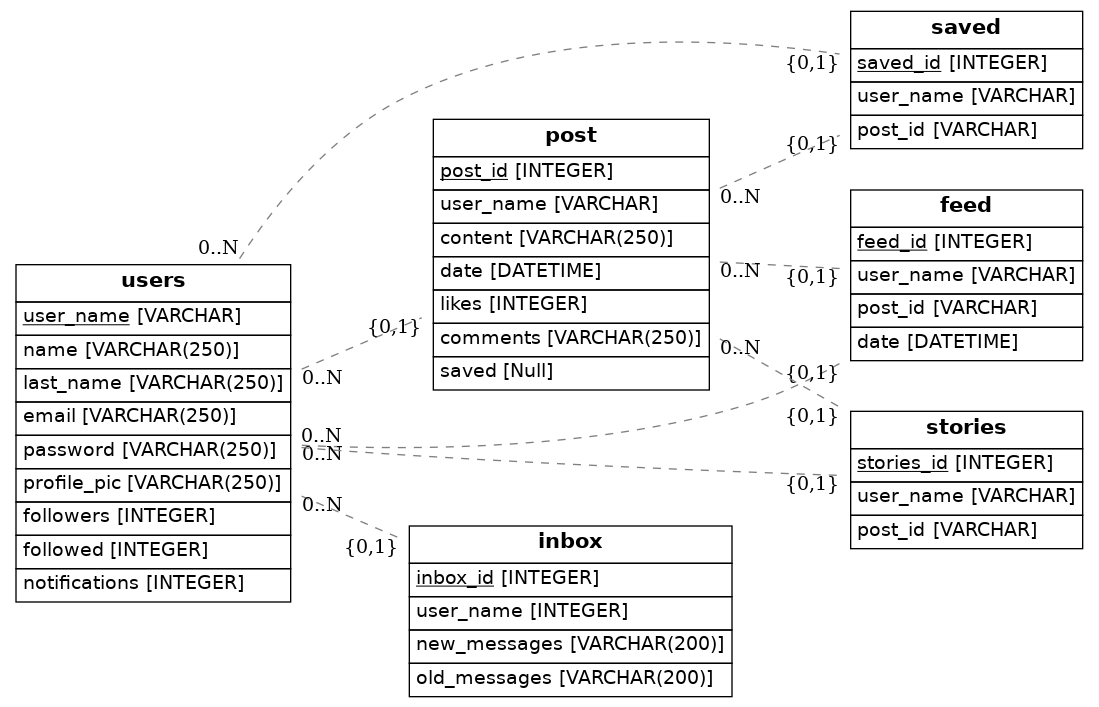
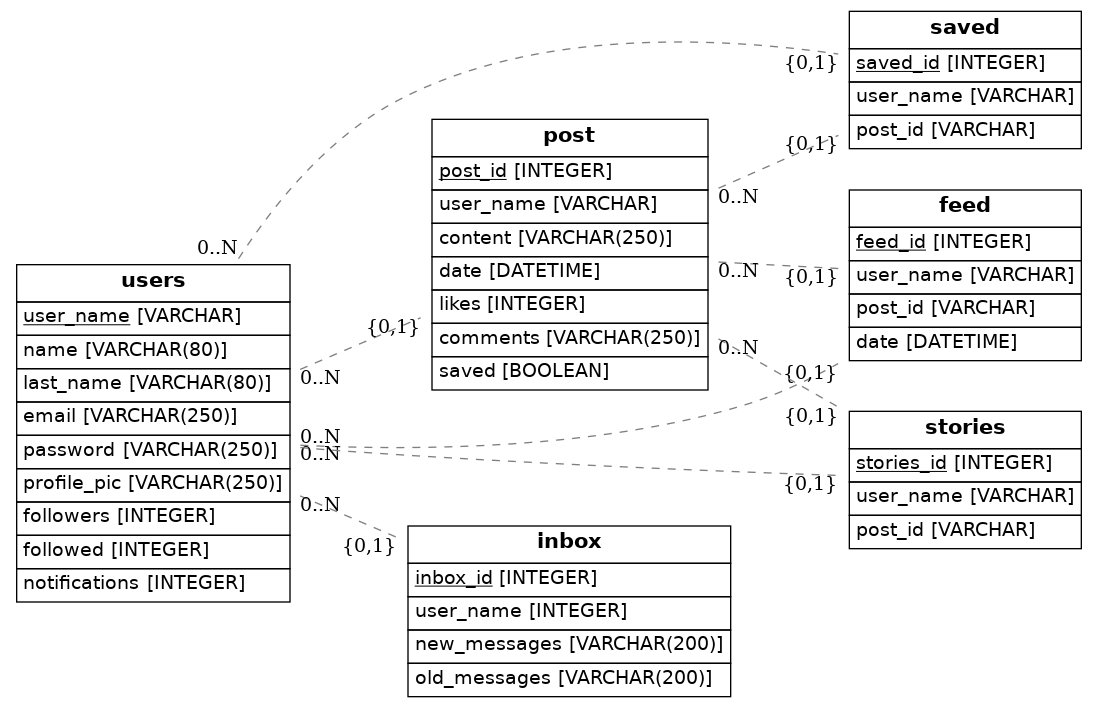
:key: fixed the relationships

diff --git a/src/models.py b/src/models.py
@@ -1,6 +1,6 @@
 import os
 import sys
-from sqlalchemy import Column, ForeignKey, Integer, String, DateTime
+from sqlalchemy import Column, ForeignKey, Integer, String, DateTime, Boolean
 from sqlalchemy.ext.declarative import declarative_base
 from sqlalchemy.orm import relationship
 from sqlalchemy import create_engine
@@ -11,26 +11,33 @@ Base = declarative_base()
 class User(Base):
     __tablename__ = 'users'
     user_name = Column(String, primary_key=True)
-    name = Column(String(250))
-    last_name = Column(String(250))
+    name = Column(String(80))
+    last_name = Column(String(80))
     email = Column(String(250), nullable=False)
     password = Column(String(250))
     profile_pic = Column(String(250))
     followers = Column(Integer())
     followed = Column(Integer())
     notifications = Column(Integer())
-    posts = relationship("Post", backref="author")
-    inbox = relationship("Inbox", backref="author")
+    posts = relationship("Post", backref="user")
+    inbox = relationship("Inbox")
+
+    # def like() 
+    # def comment()
+    # def save()
+    # def follow_unfollow()
 
 class Post(Base):
     __tablename__= 'post'
     post_id = Column(Integer, primary_key=True)
     user_name = Column(String, ForeignKey('users.user_name'), nullable=False)
+    user = User
     content = Column(String(250))
     date = Column(DateTime())
     likes = Column(Integer())
     comments = Column(String(250))
-    saved = Column()
+    saved = Column(Boolean())
+
 
 class Saved(Base):
     __tablename__ = 'saved'
